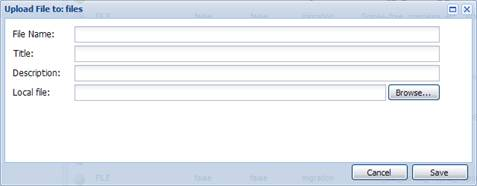
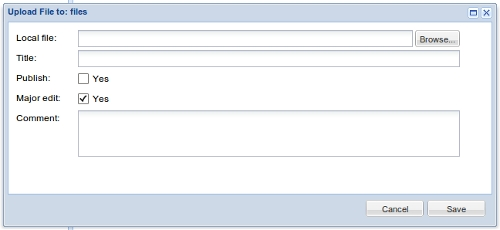
CC-1263: Updated the documentation on uploading a file.

Changed region(s): [[0.0, 0.0, 1.0, 1.0], [0.1468, 0.672, 0.9099, 0.6989]]

diff --git a/modules/client-gwt/src/main/resources/ccc/client/gwt/public/manual/CCC7_UserManual.htm b/modules/client-gwt/src/main/resources/ccc/client/gwt/public/manual/CCC7_UserManual.htm
@@ -242,10 +242,9 @@
       <strong><img src="CCC7_UserManual_files/image053.jpg" alt="browse" width="477" height="186" /></strong></li>
       <li>Find your file from the 'Choose file' screen and left click on it and select 'Open'. <br />
       <strong><img src="CCC7_UserManual_files/image054.jpg" alt="choose your file" width="423" height="315" /></strong></li>
-      <li>Name your document using 'File Title' field. <strong> <br />
-      TIP: Give it the same name as File Name (ensure you have saved the file with a logical name!) </strong></li>
-      
-      <li>Also enter a 'Title' and 'Description' for your file. </li>
+      <li>Specify a title for the document.<br />
+      <strong>TIP: Give it the same name as File Name (ensure you have saved the file with a logical name!)</strong></li>
+      <li>If necessary, indicate that your document should be published immediately.</li>
       <li>Click 'Save'. </li>
       <li>Your file is now in the database, and ready to be linked to on a page. <br />
       <img src="CCC7_UserManual_files/image055.jpg" alt="file is on the database" width="554" height="83" /></li>
